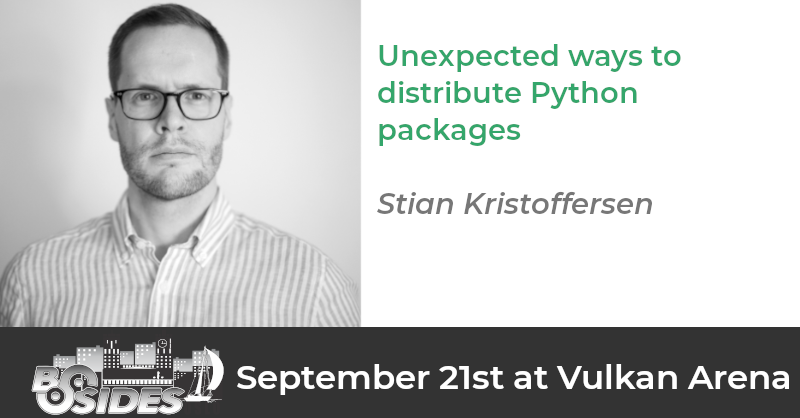
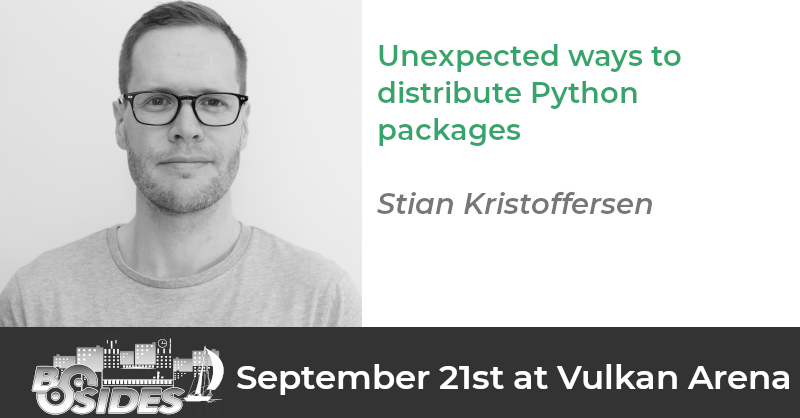
Updated image and text

diff --git a/_talks/UnexpectedWaystoDistributePythonPackages.md b/_talks/UnexpectedWaystoDistributePythonPackages.md
@@ -7,10 +7,10 @@ keynote: false
 scheduled: "11:30"
 speakers:
 - name: Stian Kristoffersen
-  image: StianKristoffersen.jpg
+  image: StianKristoffsersen2.jpg
   bio: | 
     Stian works as a security engineer at Norway's sovereign wealth fund (NBIM). He has a master's thesis in applied mathematics and ten years of industry experience. He enjoys security research, giving talks, and contributing to open source. 
 
     Stian is a BSides alumni, having presented at [BSides Oslo 2022](https://www.youtube.com/watch?v=2zW5LVklggw) and [BSides Oslo Digital Edition 2021](https://www.youtube.com/watch?v=-0bOOgMWRVA)
 ---
-This talk will present some recent security research into the Python Package Index (PyPI) ecosystem, including pypi.org and popular package managers like Pip, Poetry and PDM.
+This talk will present some recent security research into the Python Package Index (PyPI) ecosystem, including pypi.org and the package managers Pip and Poetry.
